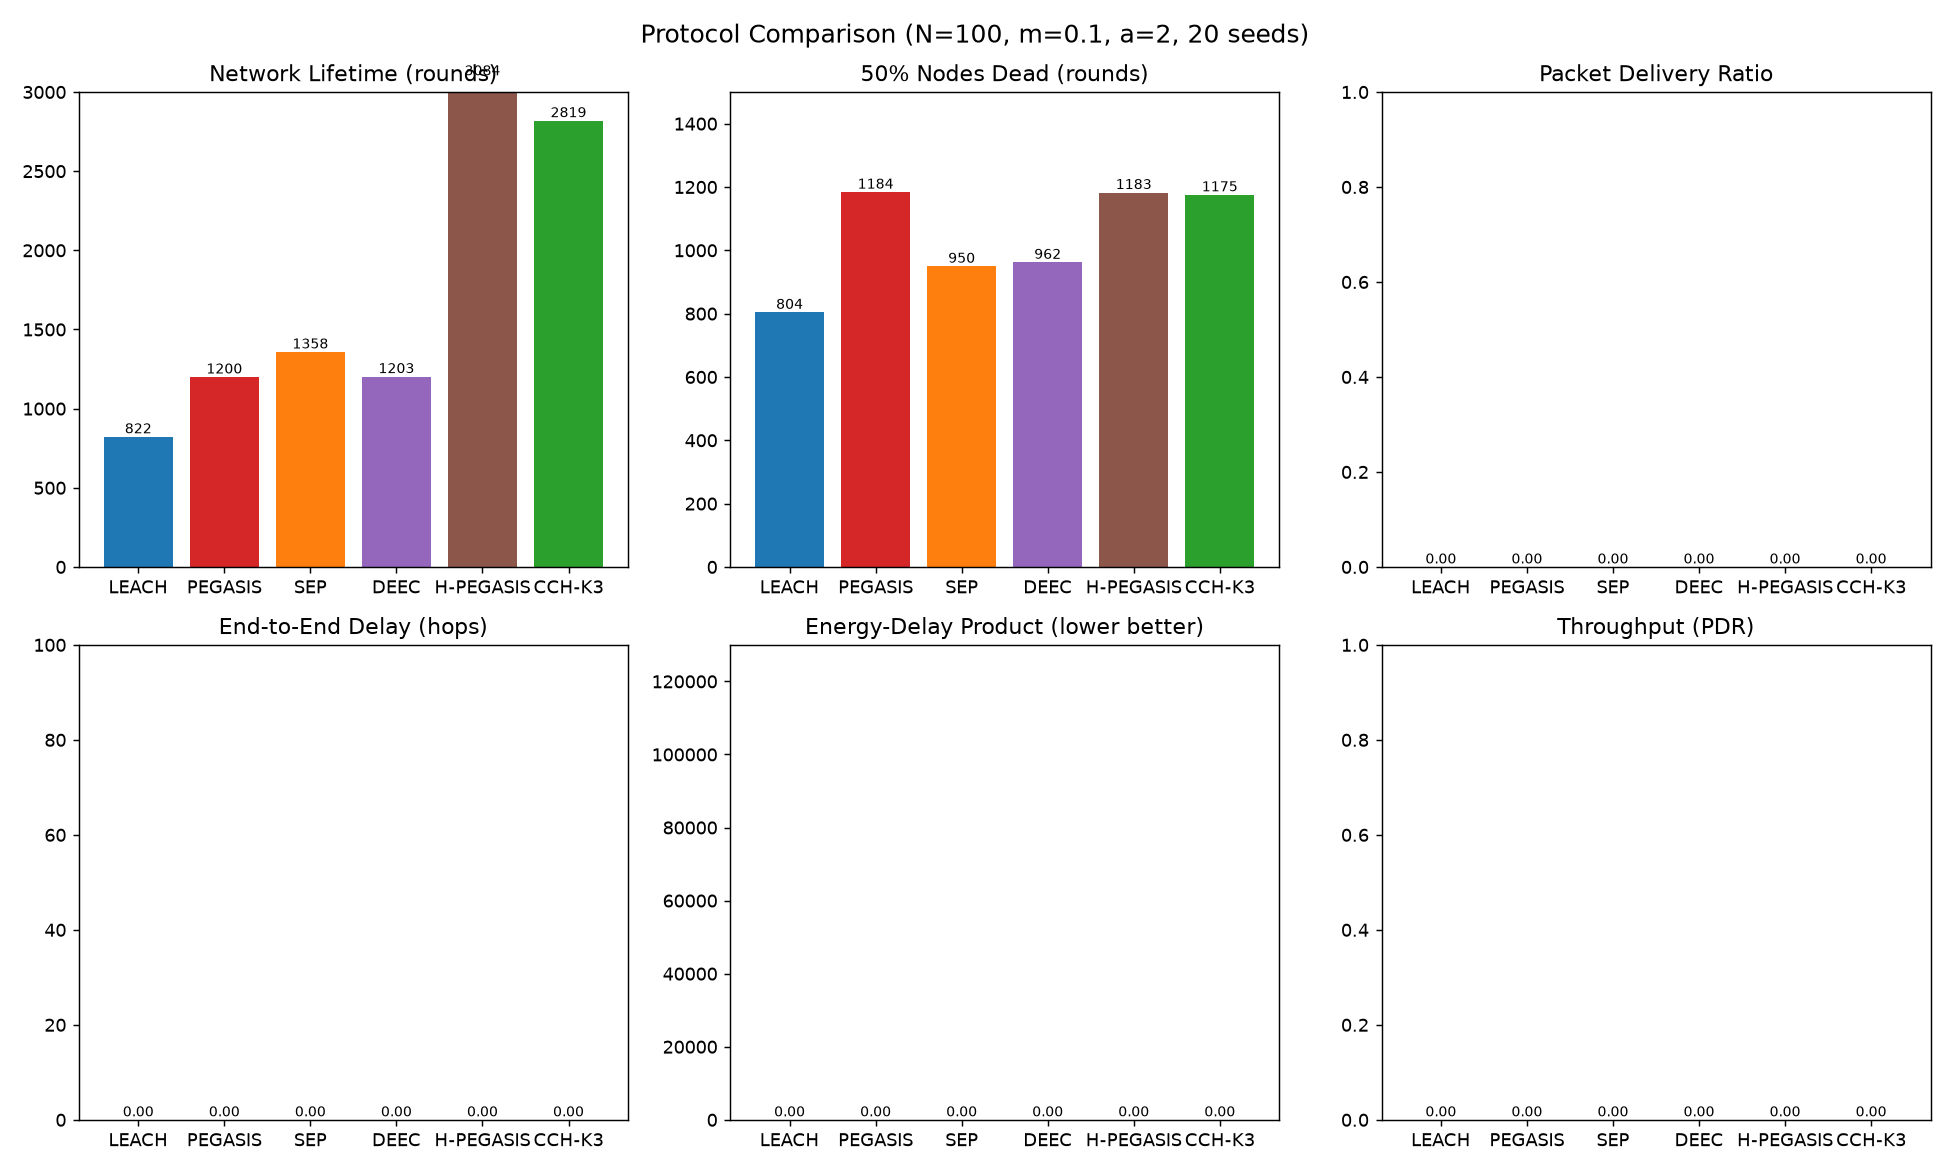
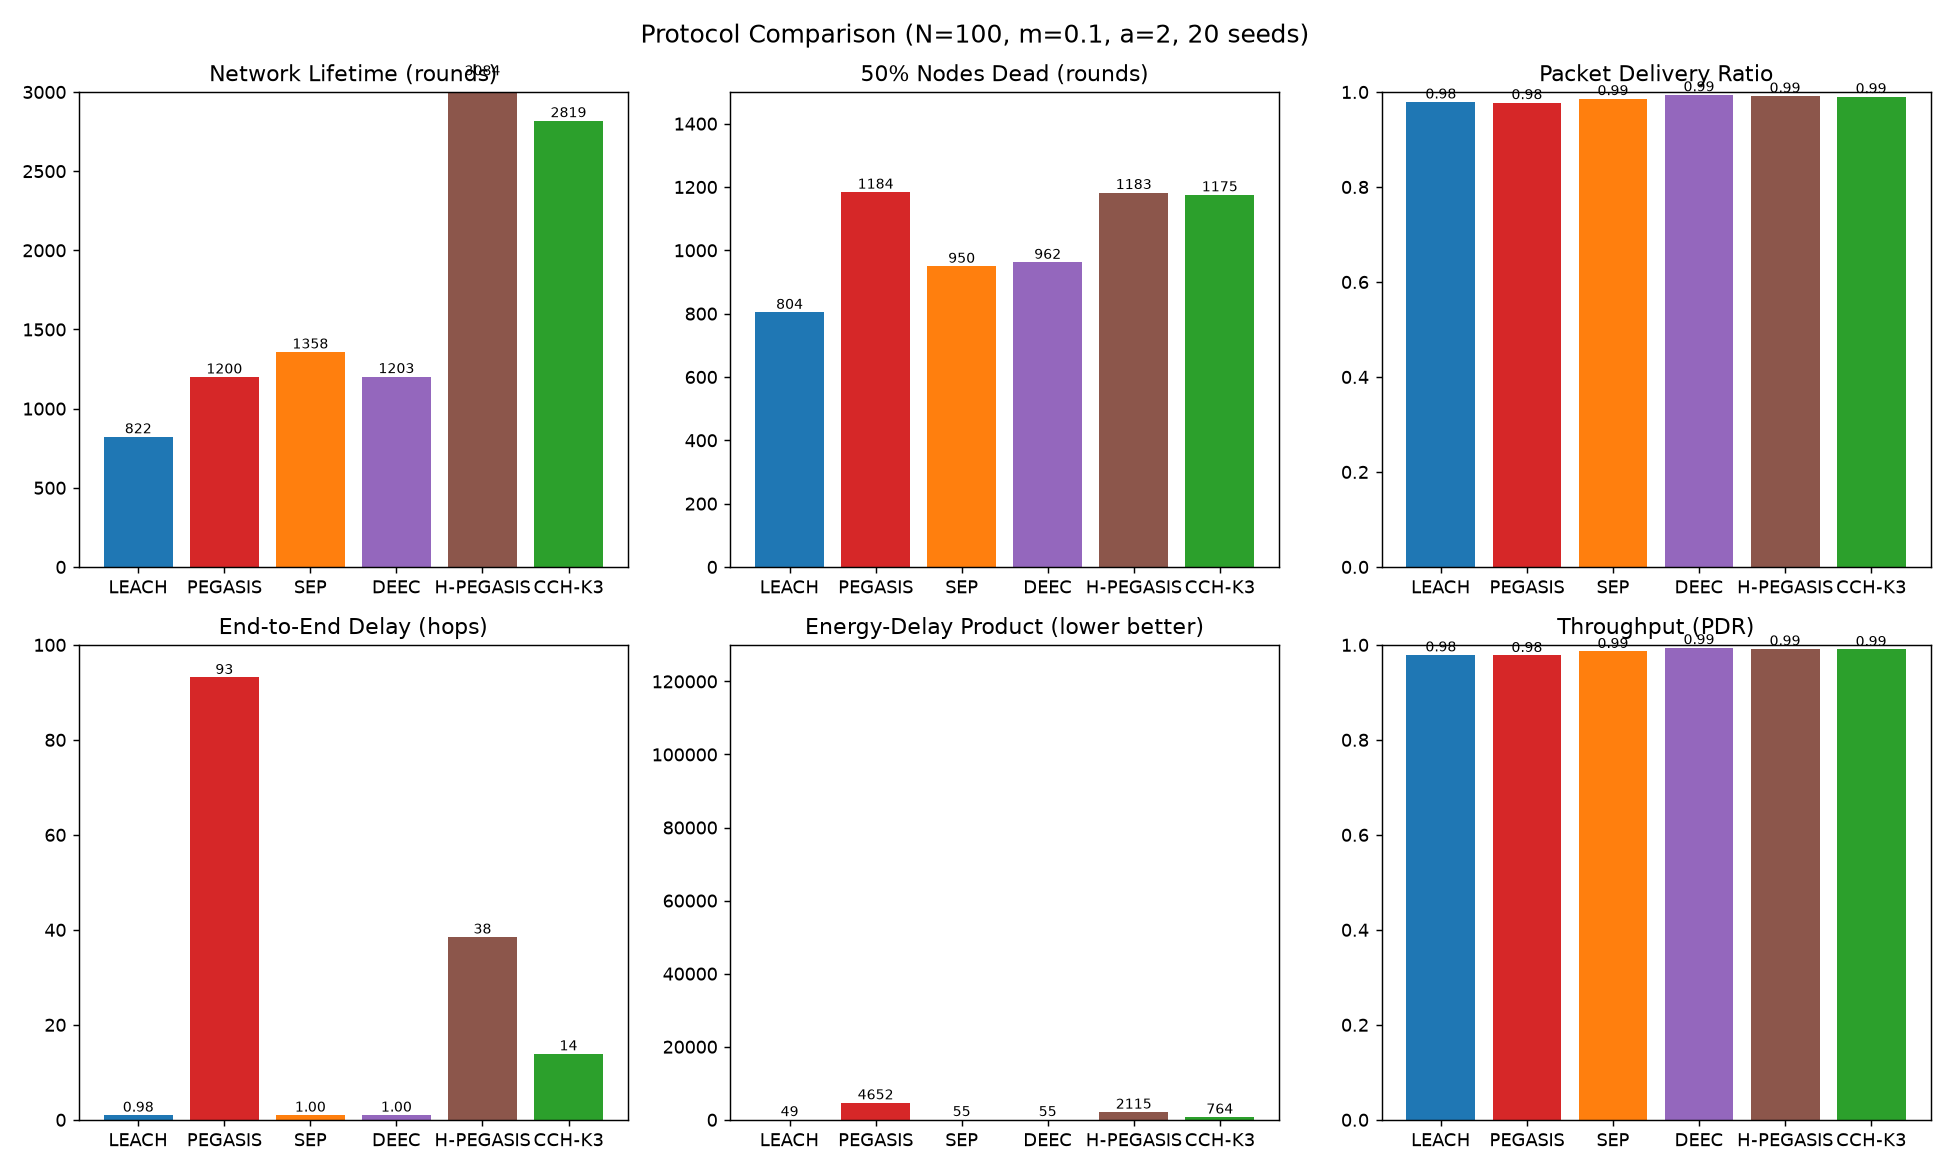
Fix empty PDR/delay/EDP panels in comparison.png + dashboard.png
metrics() was reading PDR/delay from the final (dead) round where the network
has alive=0 and records ~0, leaving 4 of 6 comparison subplots empty. Now
averages PDR/delay over rounds where the network is still alive. All six
comparison panels and the dashboard PDR/delay/ExD panels now show real values
(CCH-K3: PDR 0.99, delay 14 hops, EDP 764). Regenerated the four figures and
updated gen_dashboards.py.

diff --git a/gen_dashboards.py b/gen_dashboards.py
@@ -64,8 +64,11 @@ def metrics(hists):
         lasts.append(last)
         fnds.append(fnd)
         hnds.append(hnd)
-        pdrs.append(h[-1][3])
-        delays.append(h[-1][4])
+        # PDR / delay are meaningful only while the network is alive; the final
+        # round has alive=0 and records ~0, so average over alive rounds.
+        alive = [r for r in h if r[1] > 0]
+        pdrs.append(np.mean([r[3] for r in alive]) if alive else 0.0)
+        delays.append(np.mean([r[4] for r in alive]) if alive else 0.0)
     energy = np.mean([np.sum([r[2] for r in h]) for h in hists])
     return {
         'LAST': np.mean(lasts), 'FND': np.mean(fnds), 'HND': np.mean(hnds),
